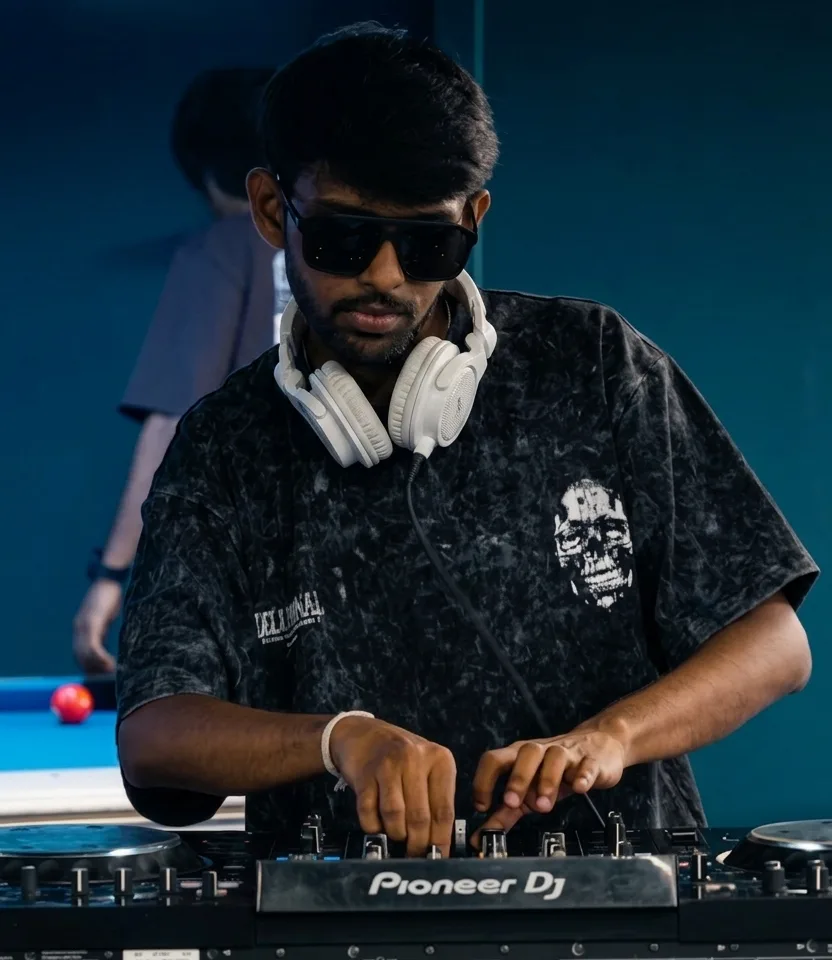
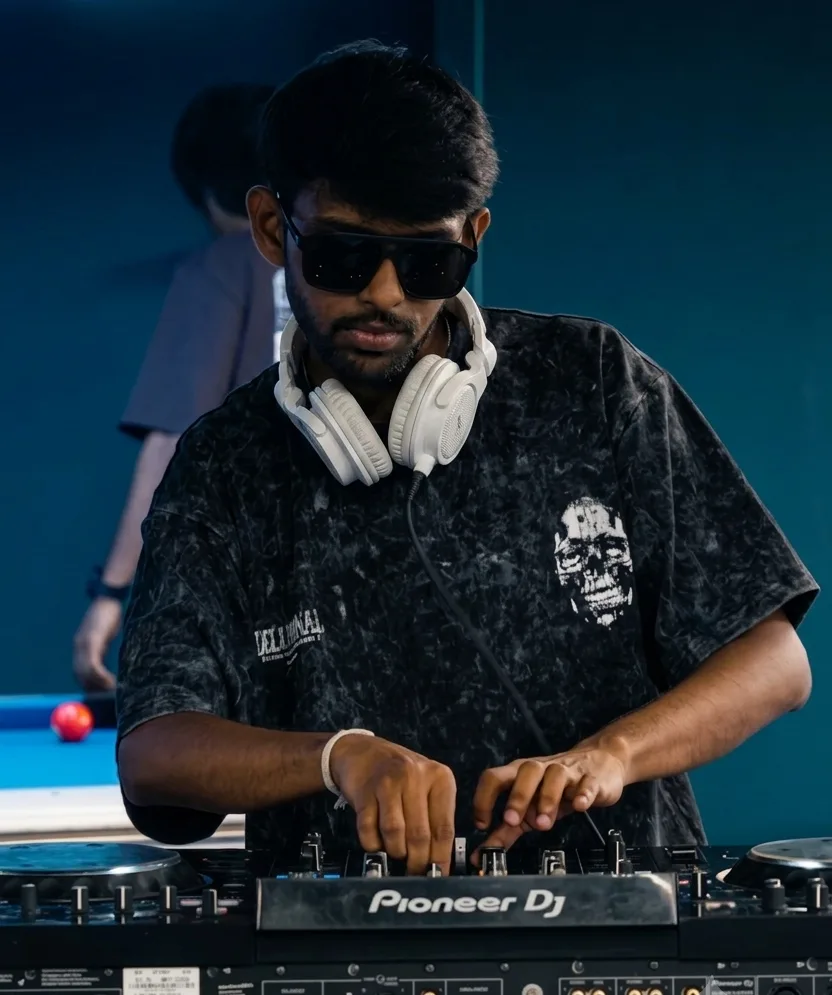
fix(ui): normalize CTA button font weight, bookingContract tweak

diff --git a/flost8-web/src/components/sections/LiveSessions.tsx b/flost8-web/src/components/sections/LiveSessions.tsx
@@ -89,7 +89,7 @@ export default function LiveSessions({ variant = 'teaser' }: LiveSessionsProps) 
               href={YOUTUBE_CHANNEL}
               target="_blank"
               rel="noopener noreferrer"
-              className="inline-flex items-center gap-2 bg-accent text-ink rounded-full px-6 py-3.5 accent-press edge-refract font-grotesk font-semibold"
+              className="inline-flex items-center gap-2 bg-accent text-ink rounded-full px-6 py-3.5 accent-press edge-refract font-grotesk"
             >
               Watch all on YouTube
               <ArrowUpRight size={20} weight="bold" />
@@ -113,7 +113,7 @@ export default function LiveSessions({ variant = 'teaser' }: LiveSessionsProps) 
           <div className="mt-10 md:mt-12">
             <Link
               to="/live-sessions"
-              className="inline-flex items-center gap-2 bg-accent text-ink rounded-full px-6 py-3.5 accent-press edge-refract font-grotesk font-semibold"
+              className="inline-flex items-center gap-2 bg-accent text-ink rounded-full px-6 py-3.5 accent-press edge-refract font-grotesk"
             >
               All sessions
               <ArrowUpRight size={20} weight="bold" />

diff --git a/flost8-web/src/lib/bookingContract.ts b/flost8-web/src/lib/bookingContract.ts
@@ -22,6 +22,7 @@ export interface BookingFieldDef {
 
 export interface BookingFormData {
   artist: string
+  event_name: string
   event_date: string
   venue: string
   city: string
@@ -49,6 +50,7 @@ interface ApiEvent {
 
 export const EMPTY_BOOKING_FORM: BookingFormData = {
   artist: '',
+  event_name: '',
   event_date: '',
   venue: '',
   city: '',
@@ -68,6 +70,7 @@ export const BOOKING_FIELDS: BookingFieldDef[] = [
     required: true,
     options: BOOKING_ARTIST_OPTIONS,
   },
+  { id: 'event_name', label: 'Event Name', type: 'text', required: true, placeholder: 'e.g. New Year\'s Eve Bash' },
   { id: 'event_date', label: 'Event Date', type: 'date', required: true },
   { id: 'venue', label: 'Venue', type: 'text', required: true, placeholder: 'Venue name' },
   { id: 'city', label: 'City', type: 'text', required: true, placeholder: 'Colombo' },

diff --git a/flost8-web/src/components/sections/Shows.tsx b/flost8-web/src/components/sections/Shows.tsx
@@ -145,7 +145,7 @@ export default function Shows() {
             </p>
             <Link
               to="/bookings"
-              className="inline-flex items-center gap-2 bg-accent text-ink rounded-full px-6 py-3.5 accent-press edge-refract font-grotesk font-semibold"
+              className="inline-flex items-center gap-2 bg-accent text-ink rounded-full px-6 py-3.5 accent-press edge-refract font-grotesk"
             >
               Book a Date
               <ArrowUpRight size={20} weight="bold" />

diff --git a/flost8-web/src/lib/bookingContract.test.ts b/flost8-web/src/lib/bookingContract.test.ts
@@ -10,6 +10,7 @@ describe('validateBookingForm', () => {
   it('flags required fields when empty', () => {
     const errors = validateBookingForm(EMPTY_BOOKING_FORM)
     expect(errors.artist).toBeTruthy()
+    expect(errors.event_name).toBeTruthy()
     expect(errors.venue).toBeTruthy()
     expect(errors.organizer_email).toBeTruthy()
     expect(errors.event_date).toBeTruthy()

diff --git a/flost8-web/CLAUDE.md b/flost8-web/CLAUDE.md
@@ -10,7 +10,15 @@ Invoke only when relevant:
 - `design-taste-frontend` — **mandatory for all UI/design decisions** (user requirement, see vault antipatterns)
 - `frontend-design` — component implementation
 - `animate` / `impeccable:animate` — motion enhancements
-- `gpt-taste` — alternative design lens
+- `gpt-taste` / `gpt-tasteskill` — alternative design lens
+- `taste-skill` / `taste-skill-v1` — design taste library (from `leonxlnx/taste-skill` plugin)
+- `brutalist-skill` / `minimalist-skill` / `soft-skill` — aesthetic-specific lenses within taste-skill
+- `redesign-skill` — targeted redesign passes on existing UI
+- `stitch-skill` — component/section stitching within taste-skill
+- `brandkit` — brand asset/token consistency checks
+- `image-to-code-skill` — convert a reference image/mock into code
+- `imagegen-frontend-web` / `imagegen-frontend-mobile` — generate UI imagery for web/mobile
+- `output-skill` — output formatting within taste-skill
 - `vercel:nextjs` — N/A here (Cloudflare Pages)
 - `agent-browser` — preview QA
 - `wiki` / `save` / `think` — vault
